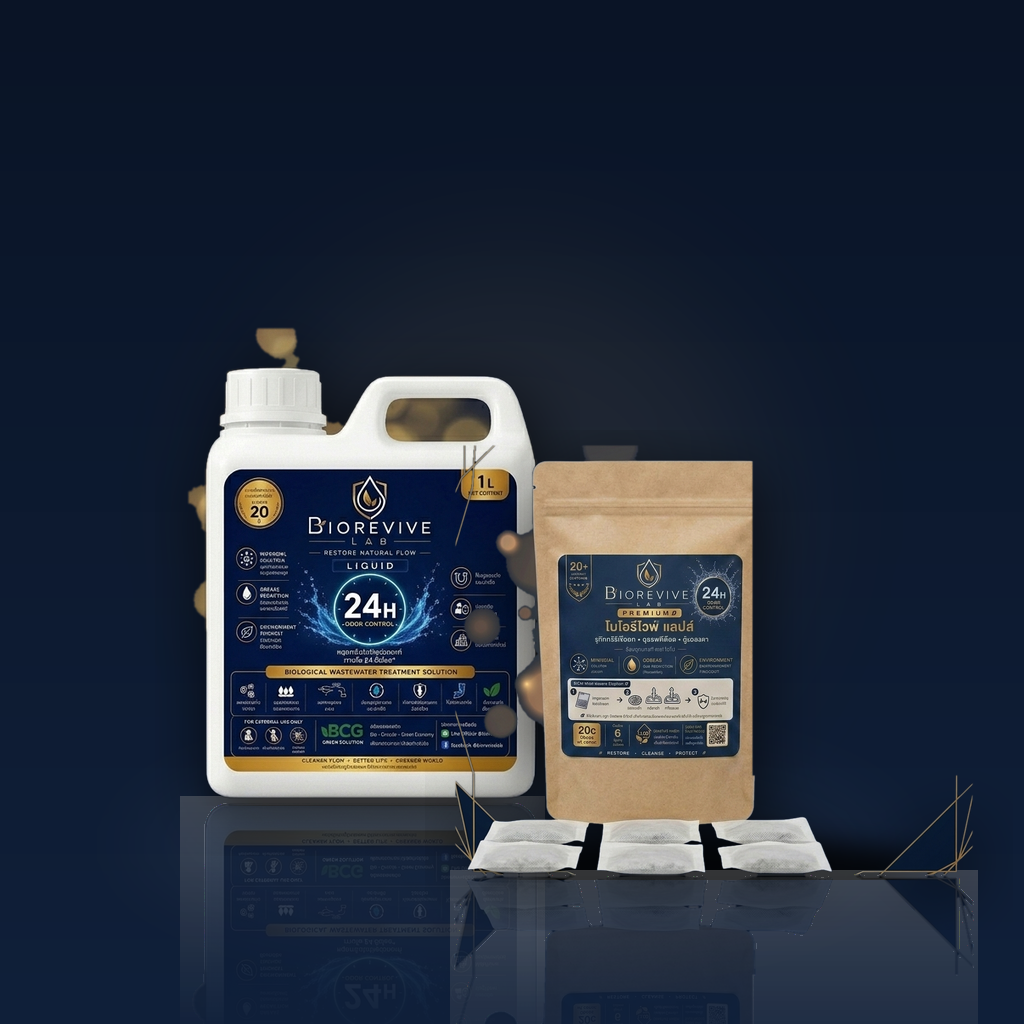
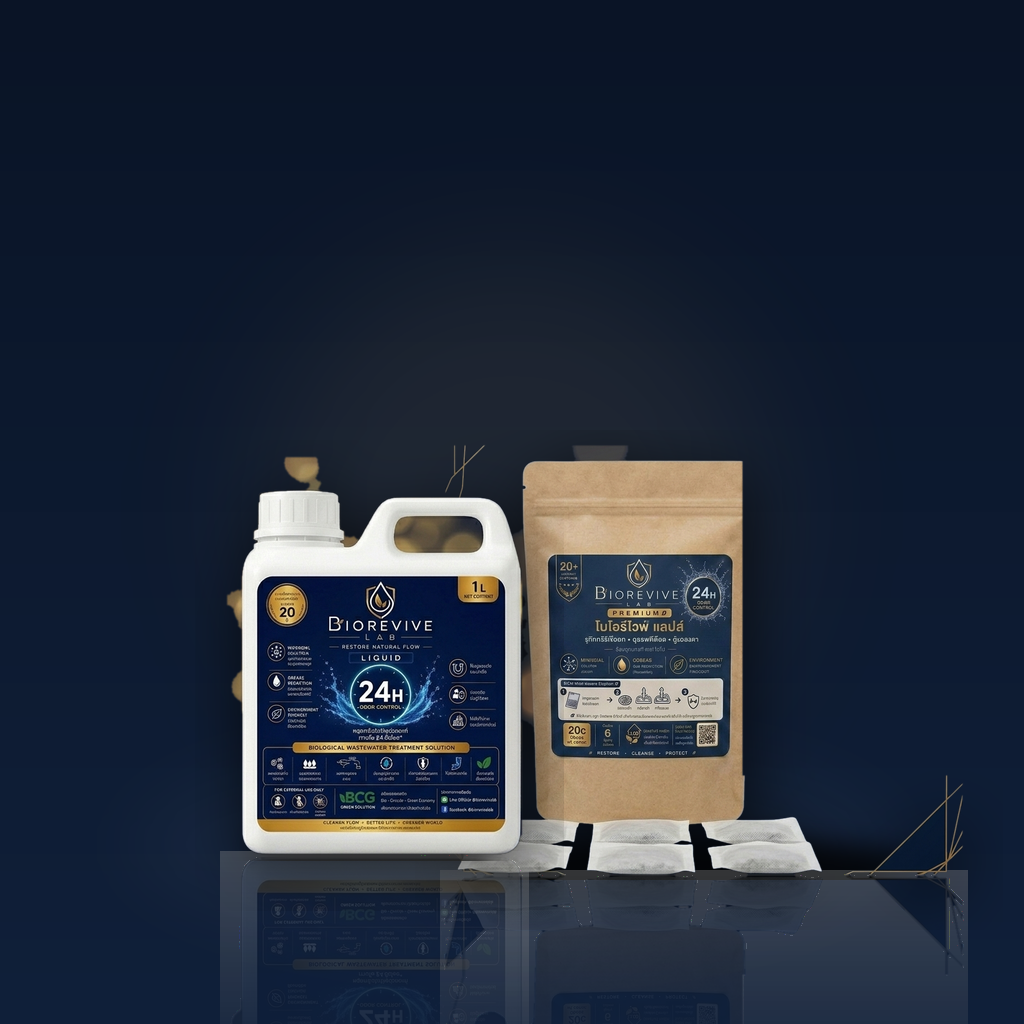
Optimize relative product sizes in Set S and Set M for realism and balance

diff --git a/compose_promo_sets.py b/compose_promo_sets.py
@@ -90,15 +90,15 @@ def create_set_v3(name, products, output_filename):
 # Run Sets with Premium Navy Background and Catalog folder assets
 # Set S
 create_set_v3("Set S", [
-    (PROD_1L, (180, 320), 0.85),
-    (PROD_TEABAG, (450, 440), 0.55)
+    (PROD_1L, (220, 450), 0.72),
+    (PROD_TEABAG, (440, 440), 0.55)
 ], "promo_set_s_lifestyle.png")
 
 # Set M
 create_set_v3("Set M", [
-    (PROD_5L, (100, 260), 0.75),
-    (PROD_1KG, (380, 310), 0.75),
-    (PROD_TEABAG, (600, 480), 0.52)
+    (PROD_5L, (120, 280), 0.72),
+    (PROD_1KG, (390, 410), 0.60),
+    (PROD_TEABAG, (580, 480), 0.52)
 ], "promo_set_m_lifestyle.png")
 
 # Set L
